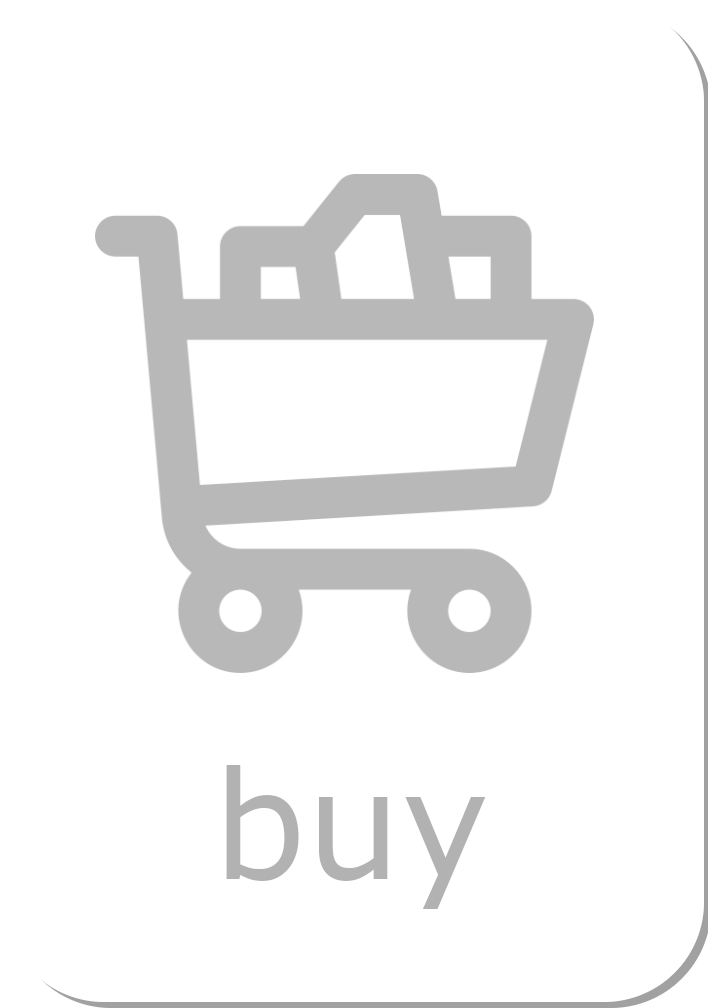
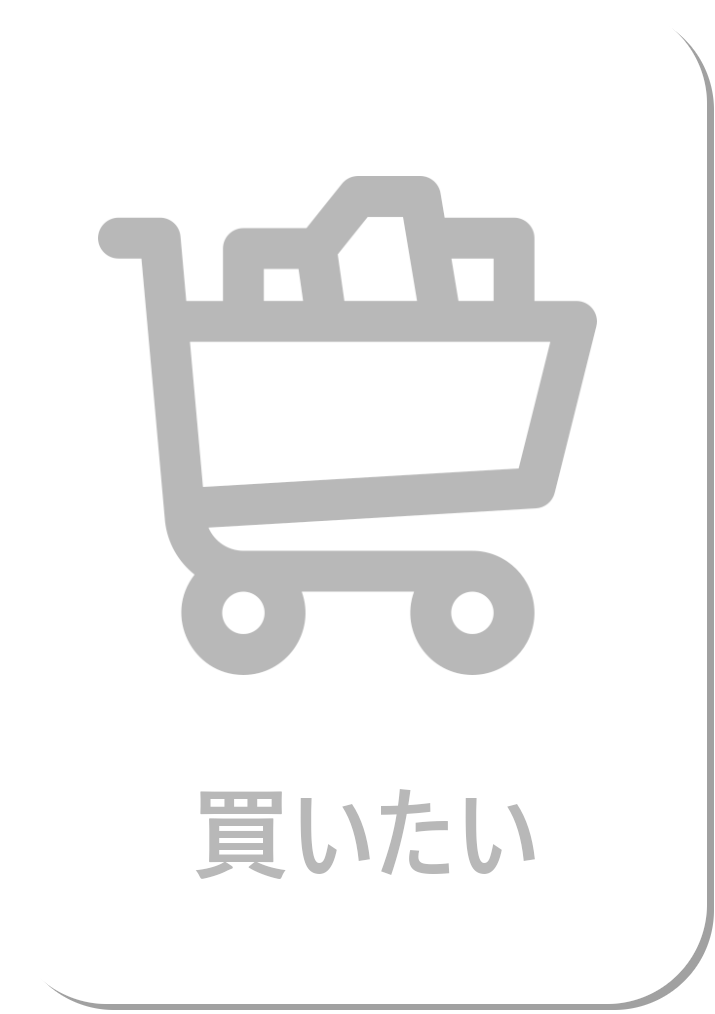
kansei

diff --git a/MainScreen.js b/MainScreen.js
@@ -91,24 +91,27 @@ export default class MainScreen extends Component{
     WebViewRef.reload()
   }
 
+
   render() {
+    StatusBar.setBarStyle('dark-content', true)
     const buy_src = require("./assets/images/buy_button.png")
     const see_src = require("./assets/images/see_button.png")
-    const get_src = require("./assets/images/get_button.png")
+    const eat_src = require("./assets/images/eat_button.png")
     const go_src = require("./assets/images/go_button.png")
     let WebViewRef
     const { navigation } = this.props
 
     return (
       <SafeAreaView style={styles.container}>
+        <StatusBar backgroundColor="blue" barStyle="light-content" style={{height: 20}} />
         <MyHeader />
         <View style={styles.textWrap}>
-          <Text style={styles.mainText}>I wanna</Text>
+          <Text style={styles.mainText}>わたしは</Text>
         </View>
         <View style={styles.buttonWrap}>
           <VerbButton id="buy" chosen={this.state.verb} onPressIn={() => this.click_verb("buy")} source={buy_src} />
           <VerbButton id="see" chosen={this.state.verb} onPressIn={() => this.click_verb("see")} source={see_src} />
-          <VerbButton id="eat" chosen={this.state.verb} onPressIn={() => this.click_verb("eat")} source={get_src} />
+          <VerbButton id="eat" chosen={this.state.verb} onPressIn={() => this.click_verb("eat")} source={eat_src} />
           <VerbButton id="go" chosen={this.state.verb} onPressIn={() => this.click_verb("go")} source={go_src} />
         </View>
         <View style={styles.partsWrap}> 
@@ -146,7 +149,7 @@ export default class MainScreen extends Component{
             }}
             disabled={this.state.disabled}
           >
-            <Text style={styles.editButton} >Edit</Text>
+            <Text style={styles.editButton} >作成</Text>
           </TouchableOpacity>
         </View>
         <View>
@@ -186,11 +189,12 @@ const styles = StyleSheet.create({
     backgroundColor: "#f1f1f1",
   },
   mainText: {
-    fontSize: 50,
-    fontFamily: "FranklinGothic-Heavy",
+    fontSize: 40,
     marginTop: 40,
     marginBottom: 20,
     color: "#474747",
+    fontWeight: "bold",
+    letterSpacing: -3
   },
   buttonWrap: {
     flexDirection: "row",
@@ -222,10 +226,11 @@ const styles = StyleSheet.create({
     justifyContent: "center"
   },
   editButton:{
-    fontSize: 30,
+    fontSize: 20,
     color: "#ffffff",
     backgroundColor: "#6f72ca",
-    padding: 5,
+    padding: 10,
+    fontWeight: "bold",
   },
   chosen: {
     borderColor: "orange",

diff --git a/ResultScreen.js b/ResultScreen.js
@@ -8,7 +8,8 @@ import {
   Image,
   TextInput,
   TouchableOpacity,
-  SafeAreaView
+  SafeAreaView,
+  StatusBar
 } from 'react-native'
 
 import MyHeader from "./header.js"
@@ -37,6 +38,7 @@ export default class ResultScreen extends Component{
   }
 
   render(){
+    StatusBar.setBarStyle('dark-content', true)
     return(
       <SafeAreaView style={{flex: 1}}>
         <MyHeader button={true} navigation={this.props.navigation} />
@@ -62,7 +64,7 @@ export default class ResultScreen extends Component{
                 })
               }}
             >
-              <Text style={styles.shareButton} >share</Text>
+              <Text style={styles.shareButton} >共有</Text>
             </TouchableOpacity>
           </View>
         </View>
@@ -86,10 +88,11 @@ const styles = StyleSheet.create({
     fontSize: 15,
   },
   shareButton:{
-    fontSize: 25,
+    fontSize: 20,
+    fontWeight: "bold",
     color: "#ffffff",
     backgroundColor: "#6f72ca",
-    padding: 5,
+    padding: 10,
   },
   playButton:{
     width: 25,

diff --git a/App.js b/App.js
@@ -1,28 +1,8 @@
 import React, {Component} from 'react'
 import { createStackNavigator } from '@react-navigation/stack'
 import { NavigationContainer } from '@react-navigation/native'
-import axios from "axios"
-import {
-  SafeAreaView,
-  StyleSheet,
-  ScrollView,
-  View,
-  Text,
-  StatusBar,
-  Image,
-  TextInput,
-  TouchableOpacity,
-} from 'react-native'
+import SplashScreen from 'react-native-splash-screen'
 
-import {
-  LearnMoreLinks,
-  Colors,
-  DebugInstructions,
-  ReloadInstructions,
-} from 'react-native/Libraries/NewAppScreen'
-
-import MyHeader from "./header.js"
-import VerbButton from "./verb_button.js"
 import MainScreen from "./MainScreen.js"
 import ResultScreen from "./ResultScreen.js"
 import SearchScreen from "./SearchScreen.js"
@@ -41,6 +21,9 @@ function Main_Result() {
 const Search = createStackNavigator()
 
 export default class App extends Component {
+  componentDidMount() {
+    SplashScreen.hide()
+  }
   render() {
     return (
       <NavigationContainer >

diff --git a/ios/topict/AppDelegate.m b/ios/topict/AppDelegate.m
@@ -10,6 +10,7 @@
 #import <React/RCTBridge.h>
 #import <React/RCTBundleURLProvider.h>
 #import <React/RCTRootView.h>
+#import "RNSplashScreen.h"
 
 @implementation AppDelegate
 
@@ -27,6 +28,7 @@
   rootViewController.view = rootView;
   self.window.rootViewController = rootViewController;
   [self.window makeKeyAndVisible];
+  [RNSplashScreen show];
   return YES;
 }
 
